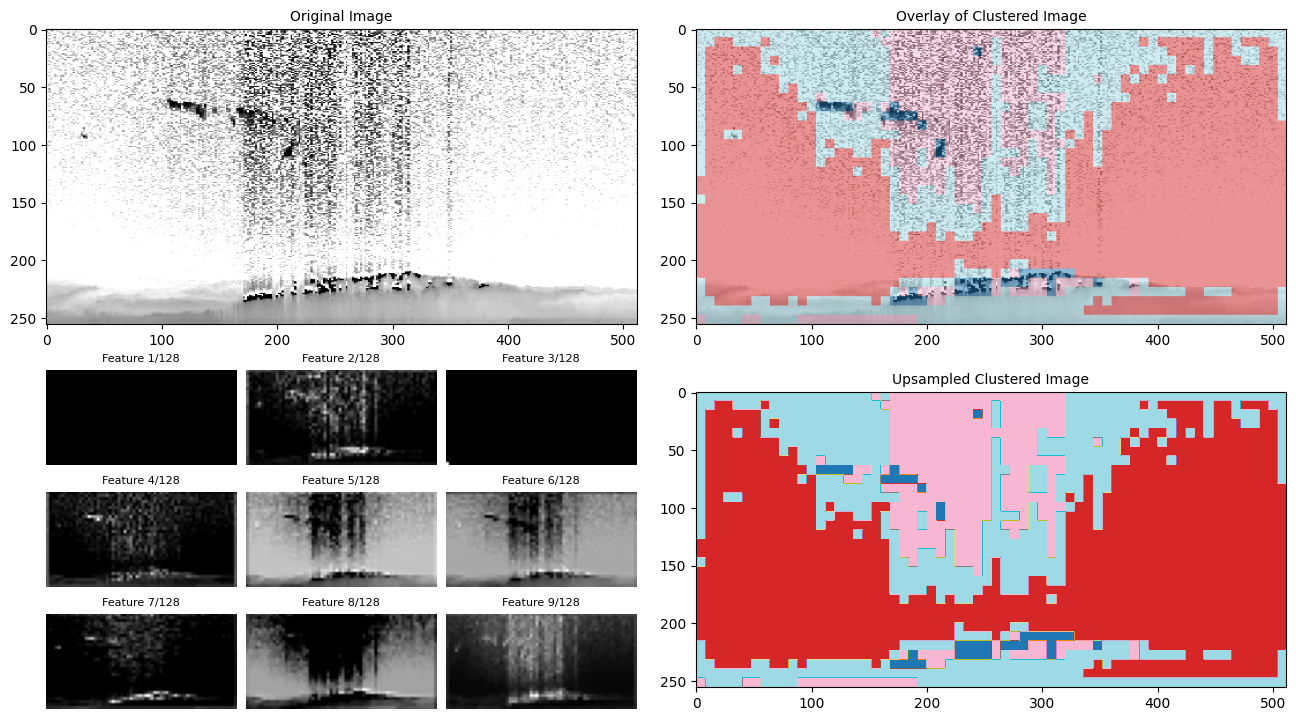
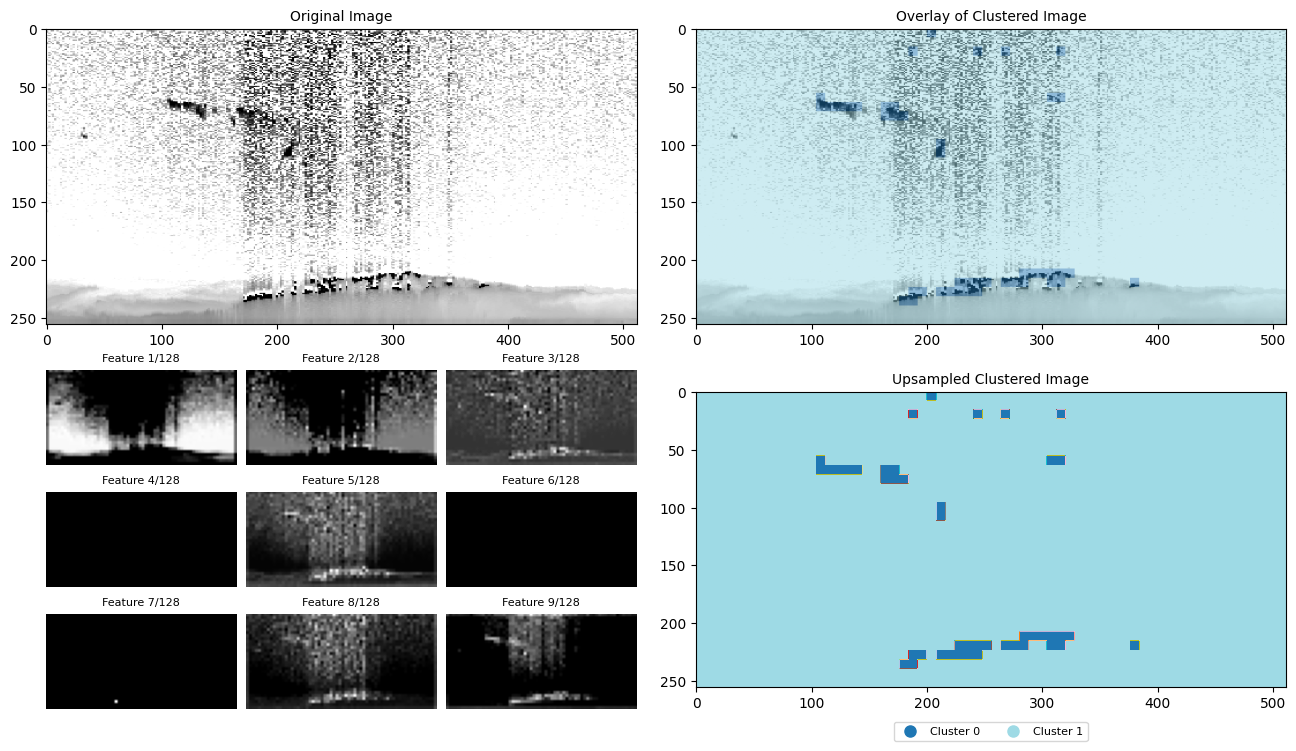
update some output

diff --git a/dec/cluster_file.py b/dec/cluster_file.py
@@ -11,24 +11,25 @@ from skimage import measure
 from skimage.transform import resize
 import xarray as xr
 
-# input
+# Input
 data_path = '../data'
 yyyy = '2024'
 mm = '07'
-dd = '02'
+dd = '03'
 station = '0-100-20000-0000001-A'
+#station = '0-20000-0-07110-A'
 #station = '0-20000-0-01492-A'
 
-# simulate partial measurements
+# Simulate partial measurements
 t_max = None
-fill = 'cropping' # 'cropping' 'padding'
+fill = 'cropping'  # 'cropping', 'padding'
 
-method = 'kmeans' # 'kmeans', 'hdbscan'
+method = 'kmeans'  # 'kmeans', 'hdbscan'
 savefig = False
 
 # Paths to saved models
-encoder_path = 'dec/encoder.dev.keras'
-kmeans_path = 'dec/kmeans.dev.pkl'
+encoder_path = 'dec/encoder.keras'
+kmeans_path = 'dec/kmeans.pkl'
 
 # Load the encoder and kmeans model
 encoder = load_model(encoder_path)
@@ -51,13 +52,13 @@ if t_max:
 # Log transform
 data = np.log(da)
 
-# transpose and flip
+# Transpose and flip
 data = np.flip(data.transpose(), axis=0)
 
 # Clip data to the range [vmin, vmax] and then scale it
 data_clipped = np.clip(data, vmin, vmax)
 
-# replace nans with max values
+# Replace NaNs with minimum values
 np.nan_to_num(data_clipped, copy=False, nan=vmin)
 
 # Invert the normalized data to reflect the 'gray_r' colormap
@@ -91,28 +92,41 @@ aggregated_encoded_img = (aggregated_encoded_img - aggregated_encoded_img.min())
 encoded_img_flat = encoded_img.reshape(-1, encoded_img.shape[-1])  # Flatten spatial dimensions for clustering
 pixel_labels = cluster.predict(encoded_img_flat)  # Get cluster labels for each pixel
 
-# merge some clusters together
-#pixel_labels = np.where((pixel_labels == 6), 2, pixel_labels)
-#pixel_labels = np.where((pixel_labels == 0), 3, pixel_labels)
-#pixel_labels = np.where((pixel_labels == 2), 4, pixel_labels)
-
+# Step 3: Map clusters to categories
+category_mapping = {
+    1: 1,  # molecules
+    3: 1,  # molecules
+    5: 1,  # noise
+    4: 1,  # aerosols
+    2: 0,  # clouds
+    6: 0,  # clouds
+    0: 1,  # other
+    7: 1   # other
+}
+pixel_labels = np.vectorize(category_mapping.get)(pixel_labels)
 
 # Reshape the cluster labels back to the spatial dimensions
 pixel_labels_image_shape = pixel_labels.reshape(encoded_img.shape[0], encoded_img.shape[1])
 
-# Step 3: Upsample the cluster labels to match the original image size
-upsampled_pixel_labels = resize(pixel_labels_image_shape, (target_size[0], target_size[1]), order=0, preserve_range=True, anti_aliasing=False)
+# Step 4: Upsample the cluster labels to match the original image size
+upsampled_pixel_labels = resize(
+    pixel_labels_image_shape,
+    (target_size[0], target_size[1]),
+    order=0,  # Nearest-neighbor interpolation
+    preserve_range=True,
+    anti_aliasing=False
+)
 upsampled_pixel_labels = upsampled_pixel_labels.astype(int)  # Ensure the labels are integers
 
-# Step 4: Create a colormap for cluster labels
+# Step 5: Create a colormap for cluster labels
 unique_labels = np.unique(upsampled_pixel_labels)
 colormap = plt.get_cmap('tab20', len(unique_labels))  # Get a colormap with enough colors
 
-# Step 5: Create an overlay image with transparency
+# Step 6: Create an overlay image with transparency
 clustered_image = colormap(upsampled_pixel_labels)  # Apply the colormap
 clustered_image[..., 3] = 0.5  # Set the alpha channel to 0.5 for transparency
 
-# Step 6: Plot the Results in a single figure with tighter layout
+# Step 7: Plot the Results in a single figure with tighter layout
 plt.figure(figsize=(16, 9))  # Adjust size as needed
 
 # Set up a 2x2 grid with space for an additional 3x3 grid (for the 9 first features)
@@ -137,7 +151,7 @@ ax4.imshow(upsampled_pixel_labels, cmap='tab20')  # Adjust colors to distinguish
 ax4.set_title("Upsampled Clustered Image", fontsize=10)
 ax4.axis('on')
 
-# Step 7: Map cluster labels to colors for the legend
+# Map cluster labels to colors for the legend
 cluster_colors = {label: colormap(idx) for idx, label in enumerate(unique_labels)}
 
 # Create a legend with cluster colors
@@ -148,7 +162,6 @@ legend_elements = [
 
 # Add the legend below the clustered image
 ax4.legend(handles=legend_elements, loc='upper center', bbox_to_anchor=(0.5, -0.1), ncol=4, fontsize=8)
-
 
 # 3x3 grid of first 9 encoded features in the bottom-left corner
 inner_grid = gridspec.GridSpecFromSubplotSpec(3, 3, subplot_spec=outer_grid[1, 0], wspace=0.05, hspace=0.05)

diff --git a/dec/raw_cluster_file.py b/dec/raw_cluster_file.py
@@ -11,24 +11,24 @@ from skimage import measure
 from skimage.transform import resize
 import xarray as xr
 
-# Input
+# input
 data_path = '../data'
 yyyy = '2024'
 mm = '07'
-dd = '01'
+dd = '02'
 station = '0-100-20000-0000001-A'
 #station = '0-20000-0-01492-A'
 
-# Simulate partial measurements
+# simulate partial measurements
 t_max = None
-fill = 'cropping'  # 'cropping', 'padding'
+fill = 'cropping' # 'cropping' 'padding'
 
-method = 'kmeans'  # 'kmeans', 'hdbscan'
+method = 'kmeans' # 'kmeans', 'hdbscan'
 savefig = False
 
 # Paths to saved models
-encoder_path = 'dec/encoder.keras'
-kmeans_path = 'dec/kmeans.pkl'
+encoder_path = 'dec/encoder.dev.keras'
+kmeans_path = 'dec/kmeans.dev.pkl'
 
 # Load the encoder and kmeans model
 encoder = load_model(encoder_path)
@@ -51,13 +51,13 @@ if t_max:
 # Log transform
 data = np.log(da)
 
-# Transpose and flip
+# transpose and flip
 data = np.flip(data.transpose(), axis=0)
 
 # Clip data to the range [vmin, vmax] and then scale it
 data_clipped = np.clip(data, vmin, vmax)
 
-# Replace NaNs with minimum values
+# replace nans with max values
 np.nan_to_num(data_clipped, copy=False, nan=vmin)
 
 # Invert the normalized data to reflect the 'gray_r' colormap
@@ -91,41 +91,28 @@ aggregated_encoded_img = (aggregated_encoded_img - aggregated_encoded_img.min())
 encoded_img_flat = encoded_img.reshape(-1, encoded_img.shape[-1])  # Flatten spatial dimensions for clustering
 pixel_labels = cluster.predict(encoded_img_flat)  # Get cluster labels for each pixel
 
-# Step 3: Map clusters to categories
-category_mapping = {
-    1: 1,  # molecules
-    3: 1,  # molecules
-    5: 1,  # noise
-    4: 1,  # aerosols
-    2: 0,  # clouds
-    6: 0,  # clouds
-    0: 1,  # other
-    7: 1   # other
-}
-pixel_labels = np.vectorize(category_mapping.get)(pixel_labels)
+# merge some clusters together
+#pixel_labels = np.where((pixel_labels == 6), 2, pixel_labels)
+#pixel_labels = np.where((pixel_labels == 0), 3, pixel_labels)
+#pixel_labels = np.where((pixel_labels == 2), 4, pixel_labels)
+
 
 # Reshape the cluster labels back to the spatial dimensions
 pixel_labels_image_shape = pixel_labels.reshape(encoded_img.shape[0], encoded_img.shape[1])
 
-# Step 4: Upsample the cluster labels to match the original image size
-upsampled_pixel_labels = resize(
-    pixel_labels_image_shape,
-    (target_size[0], target_size[1]),
-    order=0,  # Nearest-neighbor interpolation
-    preserve_range=True,
-    anti_aliasing=False
-)
+# Step 3: Upsample the cluster labels to match the original image size
+upsampled_pixel_labels = resize(pixel_labels_image_shape, (target_size[0], target_size[1]), order=0, preserve_range=True, anti_aliasing=False)
 upsampled_pixel_labels = upsampled_pixel_labels.astype(int)  # Ensure the labels are integers
 
-# Step 5: Create a colormap for cluster labels
+# Step 4: Create a colormap for cluster labels
 unique_labels = np.unique(upsampled_pixel_labels)
 colormap = plt.get_cmap('tab20', len(unique_labels))  # Get a colormap with enough colors
 
-# Step 6: Create an overlay image with transparency
+# Step 5: Create an overlay image with transparency
 clustered_image = colormap(upsampled_pixel_labels)  # Apply the colormap
 clustered_image[..., 3] = 0.5  # Set the alpha channel to 0.5 for transparency
 
-# Step 7: Plot the Results in a single figure with tighter layout
+# Step 6: Plot the Results in a single figure with tighter layout
 plt.figure(figsize=(16, 9))  # Adjust size as needed
 
 # Set up a 2x2 grid with space for an additional 3x3 grid (for the 9 first features)
@@ -150,7 +137,7 @@ ax4.imshow(upsampled_pixel_labels, cmap='tab20')  # Adjust colors to distinguish
 ax4.set_title("Upsampled Clustered Image", fontsize=10)
 ax4.axis('on')
 
-# Map cluster labels to colors for the legend
+# Step 7: Map cluster labels to colors for the legend
 cluster_colors = {label: colormap(idx) for idx, label in enumerate(unique_labels)}
 
 # Create a legend with cluster colors
@@ -161,6 +148,7 @@ legend_elements = [
 
 # Add the legend below the clustered image
 ax4.legend(handles=legend_elements, loc='upper center', bbox_to_anchor=(0.5, -0.1), ncol=4, fontsize=8)
+
 
 # 3x3 grid of first 9 encoded features in the bottom-left corner
 inner_grid = gridspec.GridSpecFromSubplotSpec(3, 3, subplot_spec=outer_grid[1, 0], wspace=0.05, hspace=0.05)
